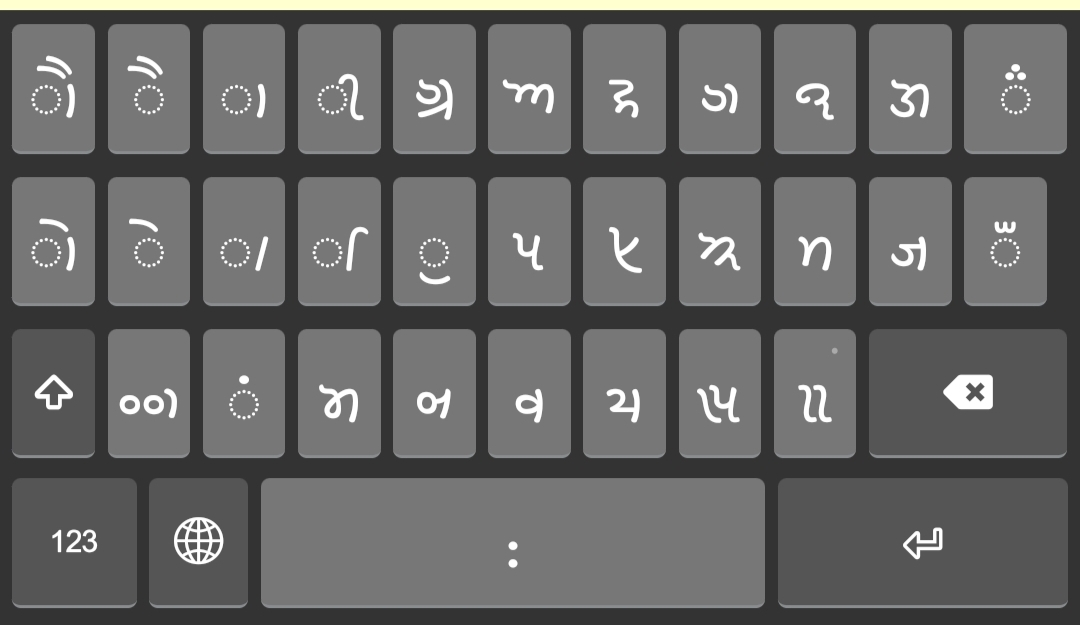
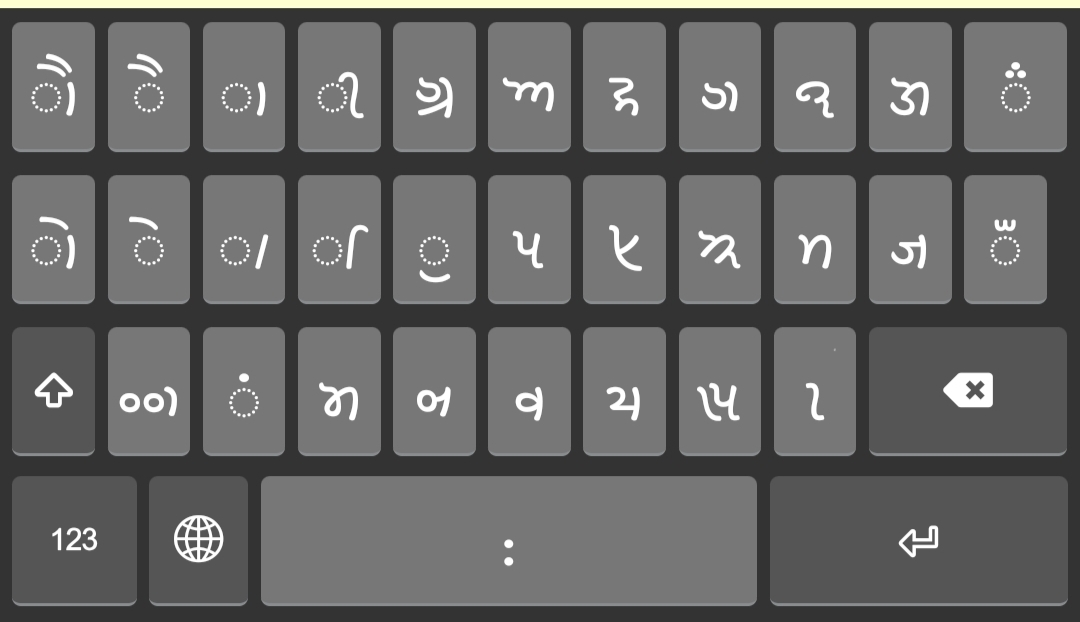
[khojki_inscript] First update

diff --git a/release/k/khojki_inscript/source/welcome.htm b/release/k/khojki_inscript/source/welcome.htm
@@ -3,16 +3,16 @@
 <head>
   <meta charset="utf-8">
   <meta name="viewport" content="width=device-width, initial-scale=1">
-  <title>Start Using Khojki Inscript</title>
+  <title>Start Using khojki_inscript</title>
   <style type="text/css">
     p { font: 10pt Tahoma; }
-    h1 { font: bold 16pt Tahoma; color: #4444cc; margin-bottom: 2px }
-    h2 { font: bold 12pt Tahoma; color: #4444cc; }
+    h1 { font: bold 16pt Tahoma; color: #061d75; margin-bottom: 2px }
+    h2 { font: bold 12pt Tahoma; color: #061d75; }
   </style>
 </head>
 <body>
 
-<h1>Start Using Khojki Inscript</h1>
+<h1>Start Using khojki_inscript</h1>
 
 <p>
     This keyboard is designed for the Sindhi language, using the Khojki script with an Inscript layout.
@@ -30,6 +30,8 @@
 
 <img src="./khojki_desktopshifted.png" alt="khojki_desktopshifted" width="750px">
 
+<p>The numeric row on the shift layer is used to type the signs of the Common Indic Number Forms.</p>
+
 <h2>Phone</h2>
 
 <p>Default (unshifted)</p>
@@ -43,6 +45,8 @@
 <p>Numeric</p>
 
 <img src="./khojki_phonenumeric.jpg" alt="khojki_phonenumeric" width="400px">
+
+<p>The second row on the numeric layer is used to type the signs of the Common Indic Number Forms.</p>
 
 <p>© Joshua Wong</p>
 

diff --git a/release/k/khojki_inscript/source/readme.htm b/release/k/khojki_inscript/source/readme.htm
@@ -3,7 +3,7 @@
 <head>
   <meta charset="utf-8">
   <meta name="viewport" content="width=device-width, initial-scale=1">
-  <title>Khojki Inscript</title>
+  <title>khojki_inscript</title>
   <style type="text/css">
     p { font: 10pt Tahoma; }
     h1 { font: bold 16pt Tahoma; color: #4444cc; margin-bottom: 2px }

diff --git a/release/k/khojki_inscript/HISTORY.md b/release/k/khojki_inscript/HISTORY.md
@@ -4,3 +4,8 @@ khojki_inscript Change History
 1.0 (2022-09-17)
 ----------------
 * Created by Joshua Wong
+
+1.0.1 (2022-10-06)
+Updates:
+1.Change the phone keyboard layout.
+2.Update the welcome text.
